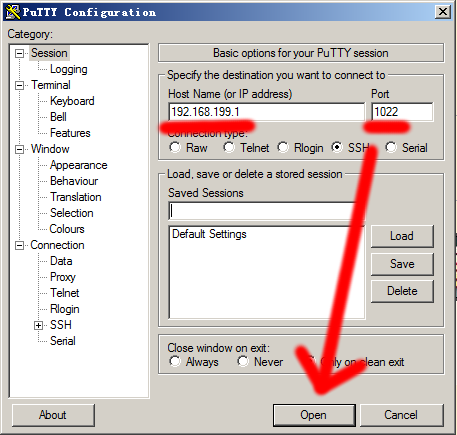
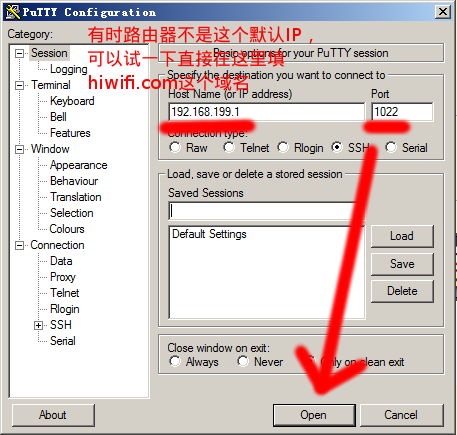
修改README，重新截图并在截图中总结了常见问题

Changed region(s): [[0.1838, 0.0598, 0.674, 0.2092]]

diff --git a/README.md b/README.md
@@ -1,9 +1,15 @@
 # FIFA助手
-这是一个完全采用极路由后台风格制做的插件（[截图1](screenshots/01.home.png)，[截图2](screenshots/02.config.png)）。目前只集成了SS插件，未来会添加更多FIFA相关的功能，专注游戏相关的功能而不是梯子的功能，因为游戏本没有被墙，只是线路拥堵而已。　　
+目前只集成了SS插件，未来会添加更多FIFA相关的功能，专注游戏相关的功能而不是梯子的功能，因为游戏本没有被墙，只是线路拥堵而已。　　
 
-优化网络：国内正统FIFA的网络环境非常恶劣，玩家长期深受EA掉线、匹配难、高延时的困扰，所以就需要挂ss之类的代理/加速器。　　
+# 主要功能
+- 优化网络：国内正统FIFA的网络环境较为恶劣，玩家长期深受EA掉线、匹配难、高延时等网络问题的困扰，常常需要挂SS才能解决问题。  
+- 查看对手（开发中）：FIFA网战常常匹配到高延时、卡顿、卡训练场的对手，通过查看对手的IP，可以得知对手地理位置和运营商这两个参考信息，进一步分析自己匹配池，从而使优化匹配池成为可能。
+- 查看服务器IP（开发中）：类似查看对手，但FIFA的Pro模式和FUT Champions模式是通过服务器转发而非P2P直连的，看不到对手的IP，所以只能看到决定你延时多少的其中一半因素：服务器IP。
 
-简化安装：FIFA助手将尽可能简化安装这个过程，希望以后可以做到官方插件里（免ROOT），目前先实现功能吧。
+# 与其它SS插件的区别
+- 完全采用极路由后台风格（[截图1](screenshots/01.home.png)，[截图2](screenshots/02.config.png)），插件样式会比普通插件更美观。
+- 重点优化了GFWLIST模式，集成FIFA相关的域名，做到EA、LIVE、PSN、ORIGIN走代理，下载和网战仍然是裸连。所以推荐大家使用这个模式。
+- 当然重点是我们的目标不是做个SS插件，以后会推出更多FIFA相关的功能。
 
 ## 支持的路由器型号及固件
 路由器型号 | 官方固件<1.2.5 | 官方固件 >= 1.2.5 | 非官方固件
@@ -18,7 +24,7 @@
 ## 安装步骤：
 - 第一步：ROOT
   - 绑定极小号并申请成为开发者(极路由后台->智能插件->路由器信息->高级设置->申请成为开发者)
-  - 完成上一步后，便可以安装「开发者模式」这个插件（也就是ROOT成功了）。
+  - 完成上一步后，便可以安装「开发者模式」这个插件（装完这个插件也就是ROOT成功了）。
   - 认真看「开发者模式」的说明，并进入极路由的ssh（Windows平台需下载ssh客户端：putty [下载](https://the.earth.li/~sgtatham/putty/latest/x86/putty.exe)，[截图1](screenshots/04.putty.png)，[截图2](screenshots/05.login.png)）。
 - 第二步：
   - 进入极路由的ssh，执行一句话安装指令：`curl easucks.cn/-|sh`（[查看截图](screenshots/06.install.png)）
@@ -39,8 +45,7 @@ mv /usr/lib/lua/luci/view/admin_web/network/index.backup /usr/lib/lua/luci/view/
 - [x] 域名白名单功能
 - [ ] 扩展SS状态的判断，现在的SS状态只判断了进程是否启动，未判断DNS和iptables等信赖服务的状态
 - [ ] 区分自定义和傻瓜式两种界面
-- [ ] 显示FIFA相关的网络连接
+- [ ] 查看匹配对手的IP或周赛服务器的IP
 
 ## 如何反馈
 - 既然是在github看到的，那就提交Issue吧
-- 提建议前请注意，本插件会慢慢偏向一个游戏助手，而不是科学上网插件，此类插件网上很多，顺便看下TODO LIST
